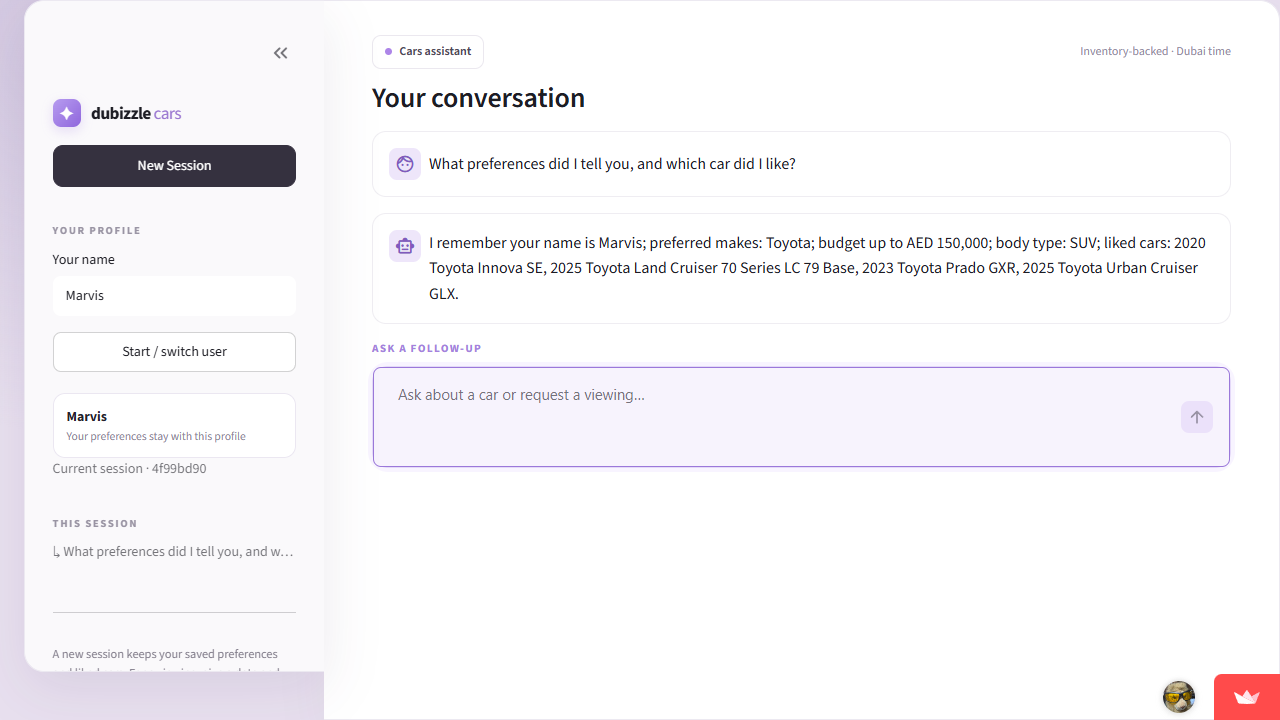
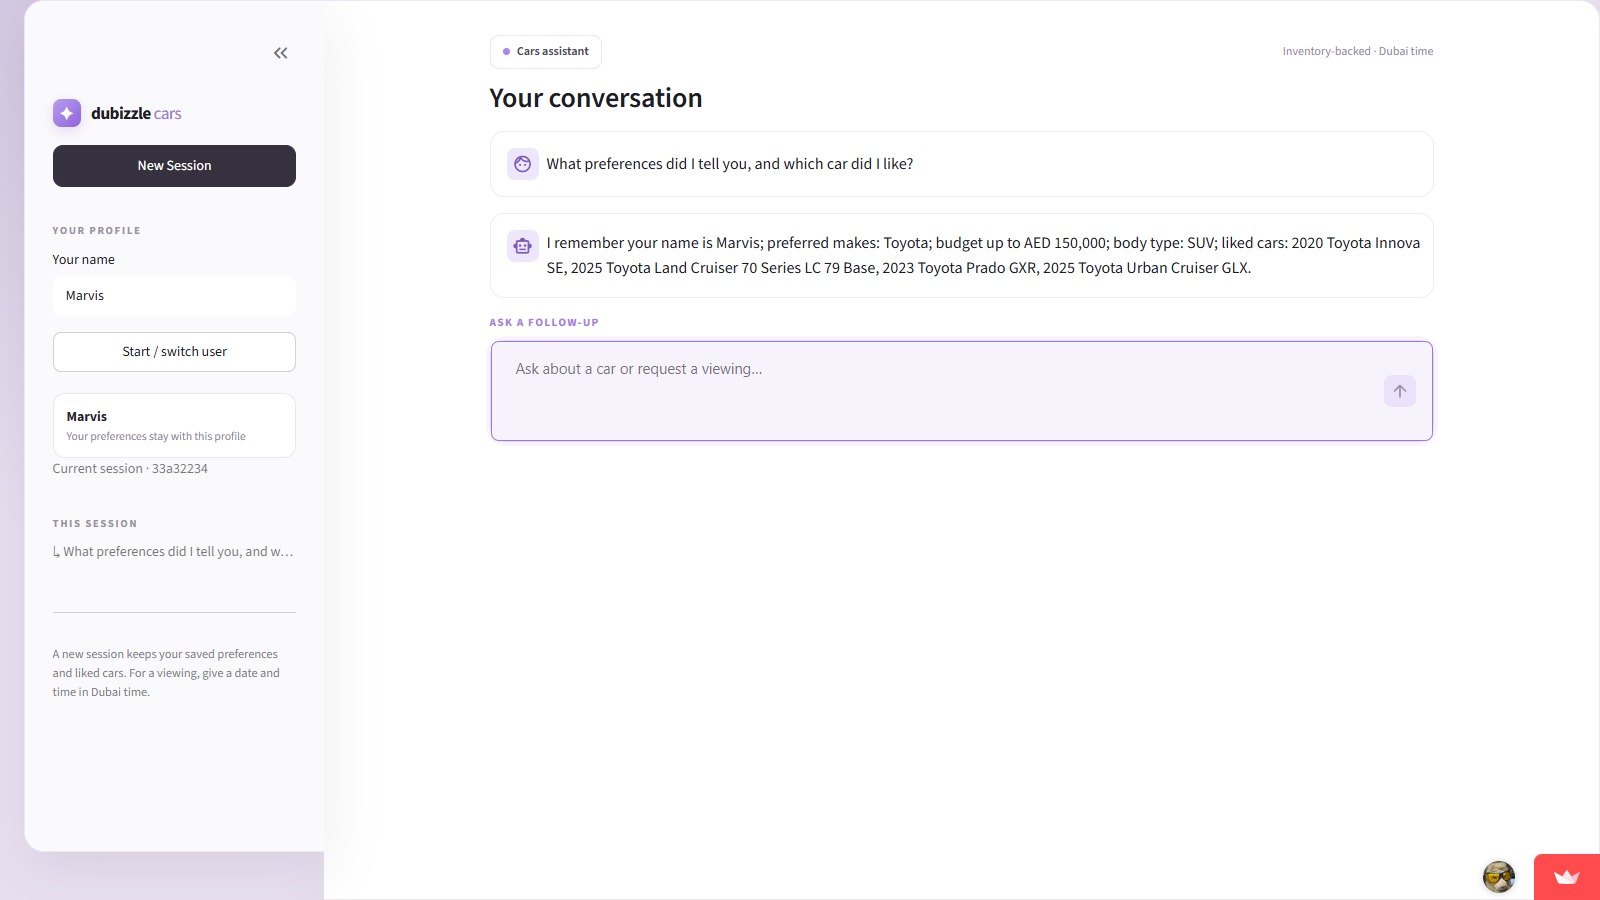
Show prompts in deployed memory screenshots

diff --git a/README.md b/README.md
@@ -53,17 +53,31 @@ The backend keeps listing IDs for follow-up references while Streamlit shows car
 
 I captured these screenshots from the [deployed Streamlit app](https://app-dubizzle-case-study-48ew9fpqpk2dou4ybavz2g.streamlit.app/) on 24 September 2026 using the name **Marvis**.
 
-![I started a session as Marvis](docs/streamlit_welcome.png)
+### Short-term memory: same session `6e57bc00`
 
-![I received Toyota listings with names, prices, and mileage but no internal listing IDs](docs/streamlit_results.png)
+I searched for Toyota cars from 2020 under AED 150,000. The prompt and matching results are visible together:
 
-![I asked a follow-up warranty question about the second result, a Toyota Urban Cruiser](docs/streamlit_followup.png)
+![My search prompt and Toyota results in session 6e57bc00](docs/streamlit_results.png)
 
-![A completely new session recalled my preferences and liked cars](docs/streamlit_memory.png)
+I then asked for the second car's mileage and followed with "Does it have a warranty?" Both prompts and both replies refer to the same Toyota Prado:
 
-![I rejoined as Marvis in a fresh browser and recalled the same profile](docs/streamlit_rejoin.png)
+![Both follow-up prompts and answers identify the same Toyota Prado in session 6e57bc00](docs/streamlit_followup.png)
 
-I saved a Toyota SUV preference and AED 150,000 budget, searched for Toyota cars from 2020 under that budget, asked for the second car's mileage and warranty, and liked it. A **new session** and a separate browser both recalled my preference and liked car. I had saved the other liked cars shown in the memory screenshots during earlier checks of the same demo profile.
+I liked that car before starting a new session:
+
+![My like prompt and the saved Toyota Prado reply in session 6e57bc00](docs/streamlit_like.png)
+
+### Long-term memory: new session `33a32234`
+
+I selected **New Session** and asked what preferences I had given and which car I liked. The new session ID, prompt, and recalled Toyota, SUV, budget, and liked car are visible:
+
+![My recall prompt and answer in new session 33a32234](docs/streamlit_memory.png)
+
+I also rejoined as Marvis in a fresh browser and asked what the assistant remembered. That created another session, `573ce116`, with the same recall:
+
+![My fresh-browser recall prompt and answer in session 573ce116](docs/streamlit_rejoin.png)
+
+The other liked cars in the memory screenshots were saved during earlier checks of the same demo profile.
 
 ## Deployed checks
 
